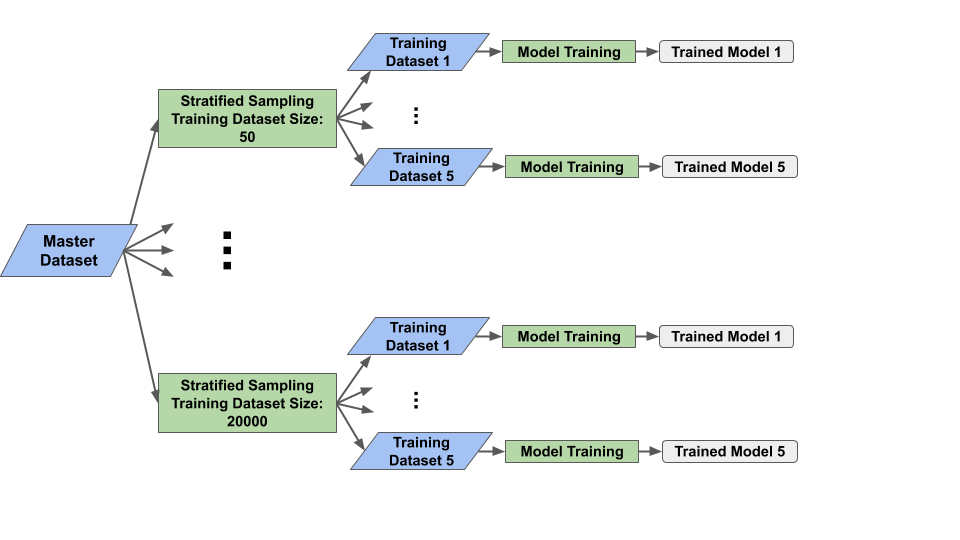
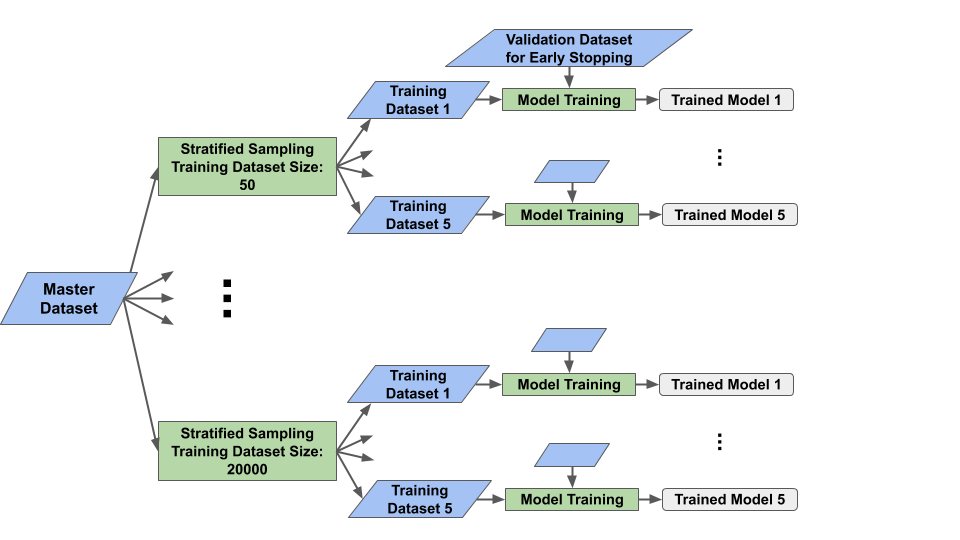
diagrams

Changed region(s): [[0.0, 0.0296, 0.8438, 0.6815], [0.1562, 0.563, 0.8438, 0.9778], [0.2188, 0.4148, 0.25, 0.5926]]

diff --git a/urban_source_search_res_disc.tex b/urban_source_search_res_disc.tex
@@ -24,7 +24,7 @@ Different sized training datasets were sampled from both master datasets using s
 
 \begin{figure}[H]
 	\centering
-	\includegraphics[trim=0 70 160 0,clip,width=1.0\linewidth]{images/learning_curve_training_diagram}
+	\includegraphics[trim=0 0 0 0,clip,width=1.0\linewidth]{images/learning_curve_training_diagram}
 	\caption{Training process used to train models for the learning curves.}
 	\label{fig:learning_curve_training_diagram}
 \end{figure}
@@ -38,7 +38,6 @@ The validation dataset's F1 score was used to construct learning curves for each
 	\caption{Learning curves for each simple model.}
 	\label{fig:learning_curves_easy}
 \end{figure}
-
 
 The validation dataset error curves in Figure \ref{fig:learning_curves_full} are less steep than those in the simple learning curve plot. This shows that the patterns in the complete dataset are more complex and models require more examples to generalize to unseen complete dataset examples. The learning curve for the complete model shows the CNN and DNN converging to near one after 5 x 10$^{3}$ and 1.5 x 10$^{4}$ examples. The testing and training F1 score curves for the CNN and DNN also show low-bias and low-variance, indicating the hyperparameter search found appropriate values for the complexity of the complete dataset.
 
@@ -56,7 +55,14 @@ The training errors for the autoencoder models do not saturate as quickly as the
 
 \section{Generalization Performance Evaluation}
 
-In this section we analyze the generalization performance of each machine learning model and the simple and complete training datasets. To quantify performance on a range of spectral qualities, the F1-scores are averaged for each model trained on a dataset of 10000 examples. Testing data are simulated over integration times log-uniformly sampled from one second to an hour and signal to background ratios of 0.1 and 0.5. Default simulation parameters are shown in Table \ref{table:default_sim_params}. Changes to these defaults are indicated for each generalization experiment. To reduce variance, ten spectra are generated for each isotope and simulated parameter combination. Models trained on the simple and complete datasets are referred to as simple models and complete models.
+In this section we analyze the generalization performance of each machine learning model and the simple and complete training datasets. To quantify performance on a range of spectral qualities, the F1-scores are averaged for each model trained on a dataset of 10000 examples. Testing data are simulated over integration times log-uniformly sampled from one second to an hour and signal to background ratios of 0.1 and 0.5. Default simulation parameters are shown in Table \ref{table:default_sim_params}. Changes to these defaults are indicated for each generalization experiment. To reduce variance, ten spectra are generated for each isotope and simulated parameter combination. Models trained on the simple and complete datasets are referred to as simple and complete models.
+
+\begin{figure}[H]
+	\centering
+	\includegraphics[trim=0 0 210 0,clip,width=1.0\linewidth]{images/generalization_performance_diagram}
+	\caption{Model averaging process used to evaluate models for testing datasets.}
+	\label{fig:generalization_performance_diagram}
+\end{figure}
 
 \begin{table}[H]
 \centering
